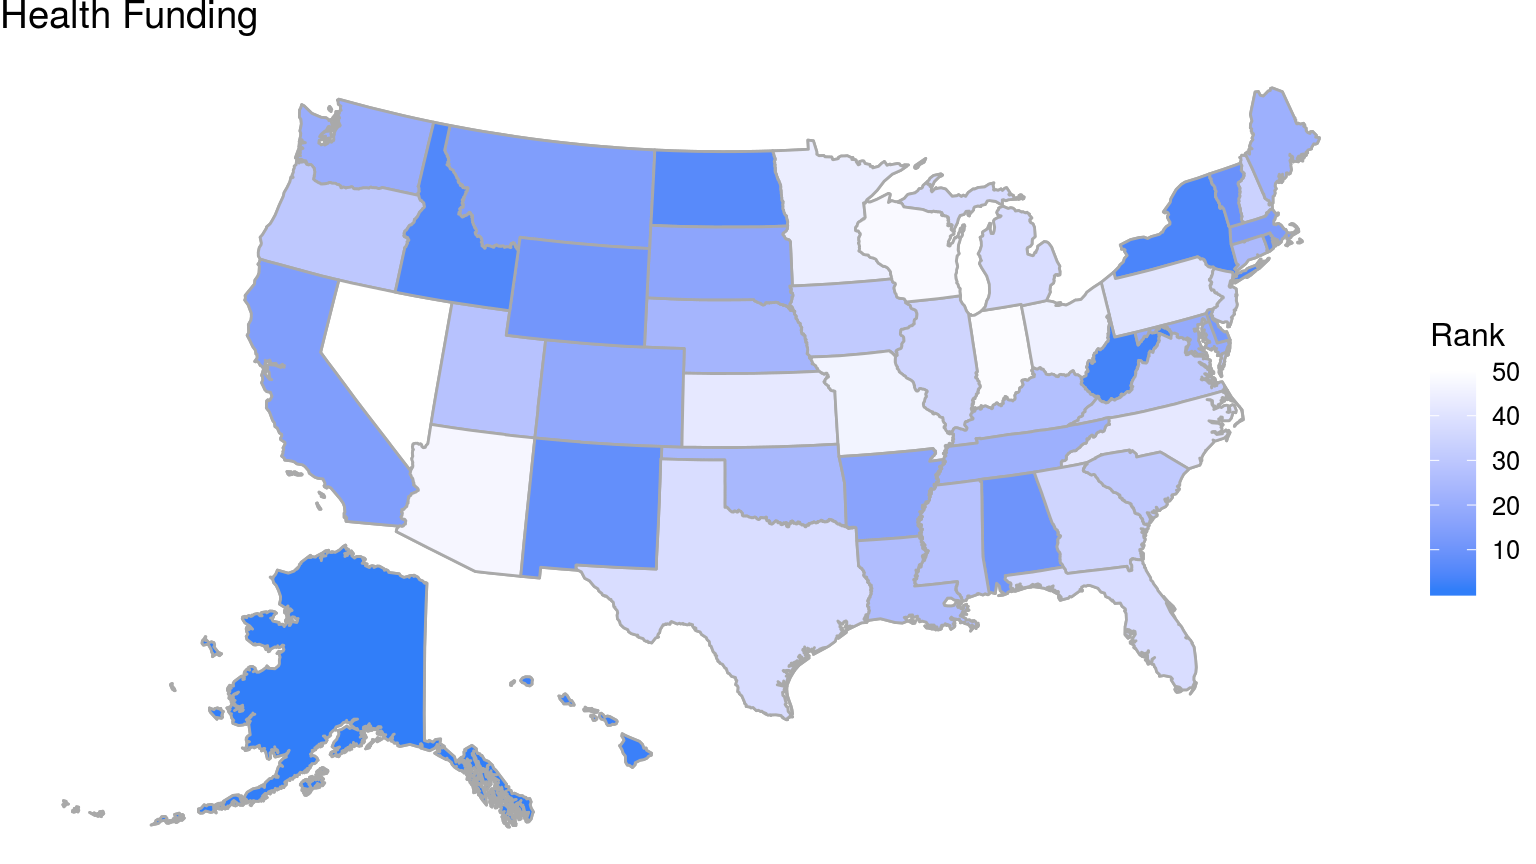
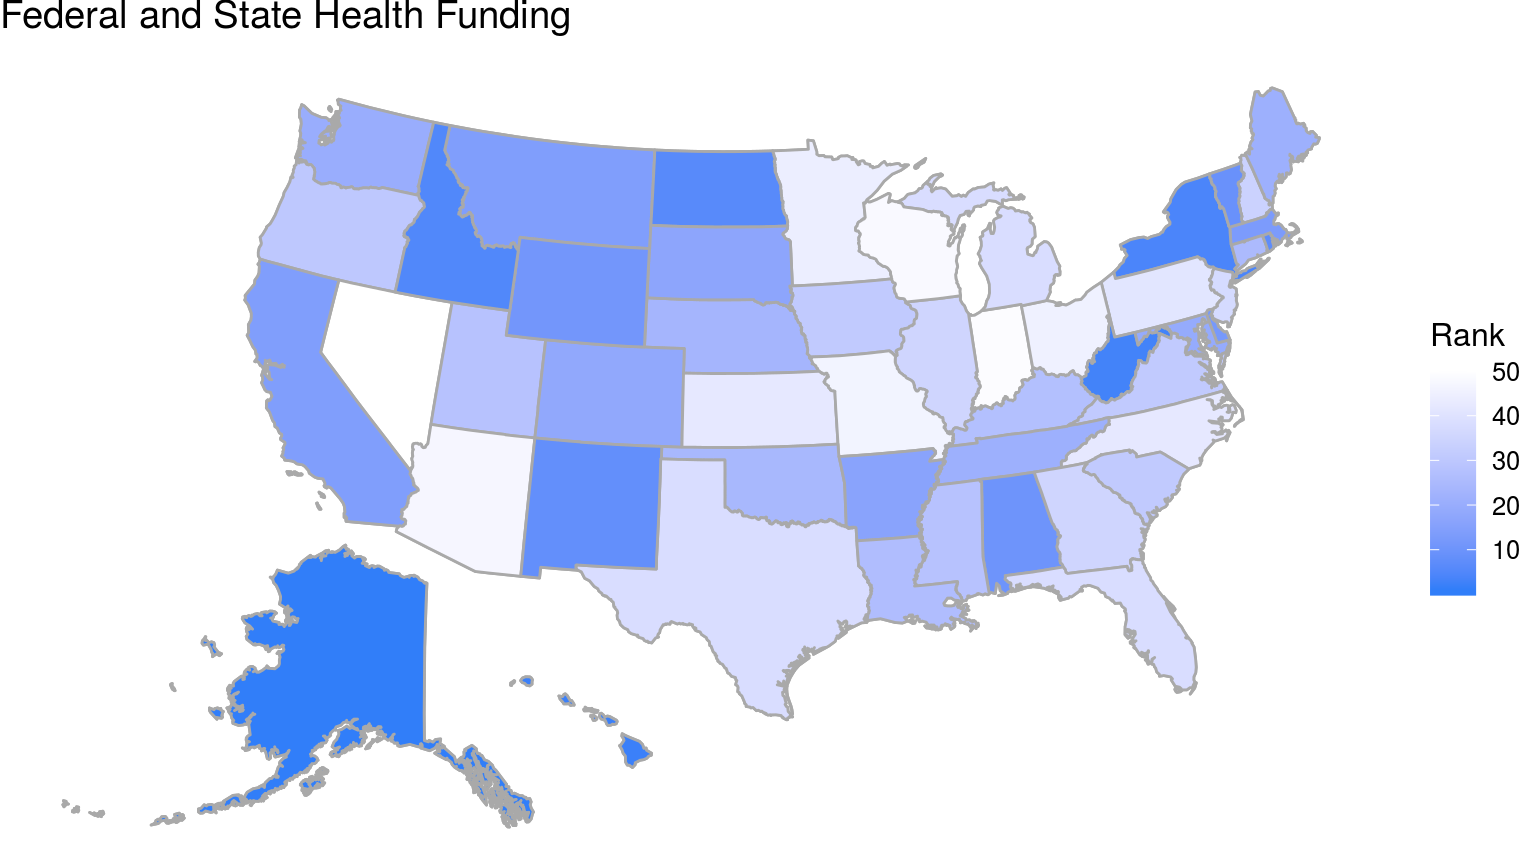
Add files via upload

Changed region(s): [[0.0, 0.0, 0.375, 0.0312]]

diff --git a/docs/more_info.html b/docs/more_info.html
@@ -16,7 +16,7 @@
 
 <script src="site_libs/jquery-1.11.3/jquery.min.js"></script>
 <meta name="viewport" content="width=device-width, initial-scale=1" />
-<link href="site_libs/bootstrap-3.3.5/css/readable.min.css" rel="stylesheet" />
+<link href="site_libs/bootstrap-3.3.5/css/journal.min.css" rel="stylesheet" />
 <script src="site_libs/bootstrap-3.3.5/js/bootstrap.min.js"></script>
 <script src="site_libs/bootstrap-3.3.5/shim/html5shiv.min.js"></script>
 <script src="site_libs/bootstrap-3.3.5/shim/respond.min.js"></script>
@@ -90,34 +90,34 @@ button.code-folding-btn:focus {
 <style type="text/css">
 /* padding for bootstrap navbar */
 body {
-  padding-top: 66px;
+  padding-top: 61px;
   padding-bottom: 40px;
 }
 /* offset scroll position for anchor links (for fixed navbar)  */
 .section h1 {
-  padding-top: 71px;
-  margin-top: -71px;
+  padding-top: 66px;
+  margin-top: -66px;
 }
 
 .section h2 {
-  padding-top: 71px;
-  margin-top: -71px;
+  padding-top: 66px;
+  margin-top: -66px;
 }
 .section h3 {
-  padding-top: 71px;
-  margin-top: -71px;
+  padding-top: 66px;
+  margin-top: -66px;
 }
 .section h4 {
-  padding-top: 71px;
-  margin-top: -71px;
+  padding-top: 66px;
+  margin-top: -66px;
 }
 .section h5 {
-  padding-top: 71px;
-  margin-top: -71px;
+  padding-top: 66px;
+  margin-top: -66px;
 }
 .section h6 {
-  padding-top: 71px;
-  margin-top: -71px;
+  padding-top: 66px;
+  margin-top: -66px;
 }
 </style>
 
@@ -307,19 +307,13 @@ div.tocify {
 <p>How does socioeconomic status influence health? The current rate of the obesity epidemic in the United States can shed some light on the relationship between these two factors. The graph below presents a clear depiction of the correlation between income and obesity rates in the United States. As the income increases, as indicated on the x-axis, the rate of obesity, denoted by the y-decreases considerably. Obesity is defined as a condition where an individual has an excess amount of body fat, referring to when one’s Body Mass Index is 30 or greater. About one in six young adults are diagnosed, with ages ranging from ten to seventeen<a href="#fn1" class="footnoteRef" id="fnref1"><sup>1</sup></a>. There are many causes of obesity ranging from genetics to environmental factors, which is one of the leading causes of this disease<a href="#fn2" class="footnoteRef" id="fnref2"><sup>2</sup></a>.</p>
 <p>According to research<a href="#fn3" class="footnoteRef" id="fnref3"><sup>3</sup></a>, individual behaviors and environmental factors contribute to excessive caloric intake and inadequate physical activities. The current high rates of obesity have been attributed to various reasons: increased snacking, eating away from home, consuming larger portion sizes, greater exposure to food advertising, limited access to physical activity opportunities, and labor-saving technological advances. Besides those reasons, income can be another factor for obesity. To explain why people with<a href="#fn4" class="footnoteRef" id="fnref4"><sup>4</sup></a> lower income are more vulnerable to obesity, the framework of social determinants of health indicates that material conditions confine one’s access to healthy food and healthcare, while also influencing health-related behaviors, such as dietary behaviors and physical activity, and psychosocial factors that derive from relative deprivation (eg, control over life, insecurity, social isolation, stress). Like the other researches<a href="#fn5" class="footnoteRef" id="fnref5"><sup>5</sup></a>, the plot below tells the relationship between income and obesity; as income increases, the obesity rate decreases, which means the wealthier you are, less obese you will be.</p>
 </div>
-<div id="health-funding" class="section level1">
-<h1>Health Funding</h1>
+<div id="health-funding-income" class="section level1">
+<h1>Health Funding&amp; Income</h1>
 <p>The link between income and health is clear. Unfortunately, the answer to the question of how to raise a population’s health is not just simply to increase the median salary. We have to look at how states with low general health are being supported.</p>
-<div id="general-health-by-state" class="section level2">
-<h2>General Health by State</h2>
 <p><img src="more_info_files/figure-html/unnamed-chunk-5-1.png" width="768" /></p>
 <p>The map above shows how each state is ranked in terms of general health. A darker color means a lower rank and therefore poor health compared to the rest of the states. The six factors taken into consideration are obesity, air pollution, infectious diseases, diabetes, frequent mental distress, and frequent physical distress. There is a clear trend of southern states having lower overall health in comparison.</p>
-<p>The map below shows how each state is ranked in terms of federal and state-directed to public health. The distribution is not extremely uneven but when the two maps are compared</p>
-</div>
-<div id="health-funding-by-state" class="section level2">
-<h2>Health Funding by State</h2>
+<p>The map above shows how each state is ranked in terms of general health. A darker color means a lower ranking, therefore resulting in poor health compared to the rest of the states. The six factors taken into consideration are obesity, air pollution, infectious diseases, diabetes, frequent mental distress, and frequent physical distress.<a href="#fn6" class="footnoteRef" id="fnref6"><sup>6</sup></a> There is a clear trend of southern states having lower overall health by comparison. The map below shows how each state is ranked in terms of federal and state-directed funds to public health per person. The states that are darker have better public health funding. Although the southern states general health is bad by comparison, they get less public health funding per person that many of the states in the northwest and northeast that already rank very highly on the general health map. Distributing the state and federal money depending on where it is currently needed most may lead to an increase in public health in the south. Public health is a multifaceted issue and there is no one easy change that will cause a whole population to be healthier, but a change in the distribution of funds will benefit the south without taking away from other states and will bring the south to the public health standards of the rest of the country.</p>
 <p><img src="more_info_files/figure-html/unnamed-chunk-6-1.png" width="768" /></p>
-</div>
 </div>
 <div class="footnotes">
 <hr />
@@ -329,6 +323,7 @@ div.tocify {
 <li id="fn3"><p>“Factors Contributing to Obesity.” Food Research &amp; Action Center, www.frac.org/obesity-health/factors-contributing-obesity.<a href="#fnref3">↩</a></p></li>
 <li id="fn4"><p>Kim, Tae Jun, and Olaf Von dem Knesebeck. “ 1. Income and Obesity: What Is the Direction of the Relationship? A Systematic Review and Meta-Analysis.” BMJ Open, 5 Jan. 2018, <a href="doi:10.1136/bmjopen-2017-01986" class="uri">doi:10.1136/bmjopen-2017-01986</a><a href="#fnref4">↩</a></p></li>
 <li id="fn5"><p>Levine, James A. “Poverty and Obesity in the U.S.” American Diabetes Association , Nov. 2011, <a href="doi:http://doi.org/10.2337db11-1118" class="uri">doi:http://doi.org/10.2337db11-1118</a>.<a href="#fnref5">↩</a></p></li>
+<li id="fn6"><p><a href="https://www.americashealthrankings.org" class="uri">https://www.americashealthrankings.org</a><a href="#fnref6">↩</a></p></li>
 </ol>
 </div>
 

diff --git a/docs/README.html b/docs/README.html
@@ -15,7 +15,7 @@
 
 <script src="site_libs/jquery-1.11.3/jquery.min.js"></script>
 <meta name="viewport" content="width=device-width, initial-scale=1" />
-<link href="site_libs/bootstrap-3.3.5/css/readable.min.css" rel="stylesheet" />
+<link href="site_libs/bootstrap-3.3.5/css/journal.min.css" rel="stylesheet" />
 <script src="site_libs/bootstrap-3.3.5/js/bootstrap.min.js"></script>
 <script src="site_libs/bootstrap-3.3.5/shim/html5shiv.min.js"></script>
 <script src="site_libs/bootstrap-3.3.5/shim/respond.min.js"></script>
@@ -90,34 +90,34 @@ button.code-folding-btn:focus {
 <style type="text/css">
 /* padding for bootstrap navbar */
 body {
-  padding-top: 66px;
+  padding-top: 61px;
   padding-bottom: 40px;
 }
 /* offset scroll position for anchor links (for fixed navbar)  */
 .section h1 {
-  padding-top: 71px;
-  margin-top: -71px;
+  padding-top: 66px;
+  margin-top: -66px;
 }
 
 .section h2 {
-  padding-top: 71px;
-  margin-top: -71px;
+  padding-top: 66px;
+  margin-top: -66px;
 }
 .section h3 {
-  padding-top: 71px;
-  margin-top: -71px;
+  padding-top: 66px;
+  margin-top: -66px;
 }
 .section h4 {
-  padding-top: 71px;
-  margin-top: -71px;
+  padding-top: 66px;
+  margin-top: -66px;
 }
 .section h5 {
-  padding-top: 71px;
-  margin-top: -71px;
+  padding-top: 66px;
+  margin-top: -66px;
 }
 .section h6 {
-  padding-top: 71px;
-  margin-top: -71px;
+  padding-top: 66px;
+  margin-top: -66px;
 }
 </style>
 

diff --git a/docs/index.html b/docs/index.html
@@ -17,7 +17,7 @@
 
 <script src="site_libs/jquery-1.11.3/jquery.min.js"></script>
 <meta name="viewport" content="width=device-width, initial-scale=1" />
-<link href="site_libs/bootstrap-3.3.5/css/readable.min.css" rel="stylesheet" />
+<link href="site_libs/bootstrap-3.3.5/css/journal.min.css" rel="stylesheet" />
 <script src="site_libs/bootstrap-3.3.5/js/bootstrap.min.js"></script>
 <script src="site_libs/bootstrap-3.3.5/shim/html5shiv.min.js"></script>
 <script src="site_libs/bootstrap-3.3.5/shim/respond.min.js"></script>
@@ -91,34 +91,34 @@ button.code-folding-btn:focus {
 <style type="text/css">
 /* padding for bootstrap navbar */
 body {
-  padding-top: 66px;
+  padding-top: 61px;
   padding-bottom: 40px;
 }
 /* offset scroll position for anchor links (for fixed navbar)  */
 .section h1 {
-  padding-top: 71px;
-  margin-top: -71px;
+  padding-top: 66px;
+  margin-top: -66px;
 }
 
 .section h2 {
-  padding-top: 71px;
-  margin-top: -71px;
+  padding-top: 66px;
+  margin-top: -66px;
 }
 .section h3 {
-  padding-top: 71px;
-  margin-top: -71px;
+  padding-top: 66px;
+  margin-top: -66px;
 }
 .section h4 {
-  padding-top: 71px;
-  margin-top: -71px;
+  padding-top: 66px;
+  margin-top: -66px;
 }
 .section h5 {
-  padding-top: 71px;
-  margin-top: -71px;
+  padding-top: 66px;
+  margin-top: -66px;
 }
 .section h6 {
-  padding-top: 71px;
-  margin-top: -71px;
+  padding-top: 66px;
+  margin-top: -66px;
 }
 </style>
 
